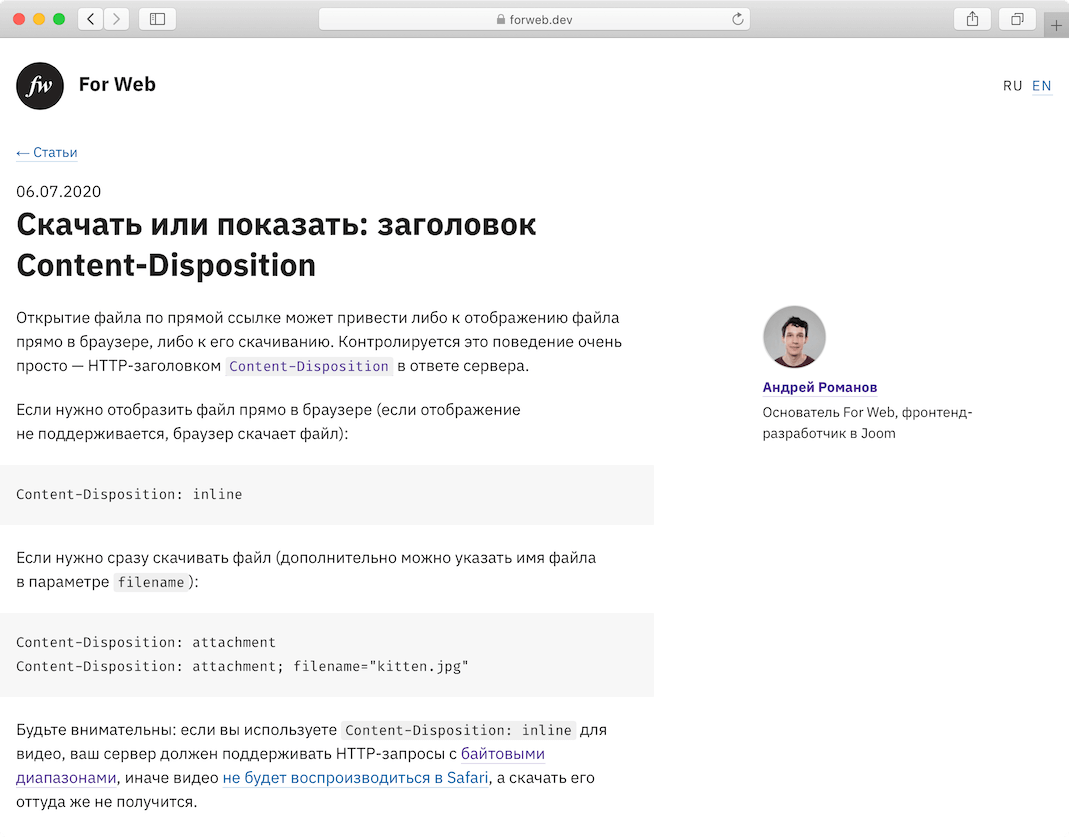
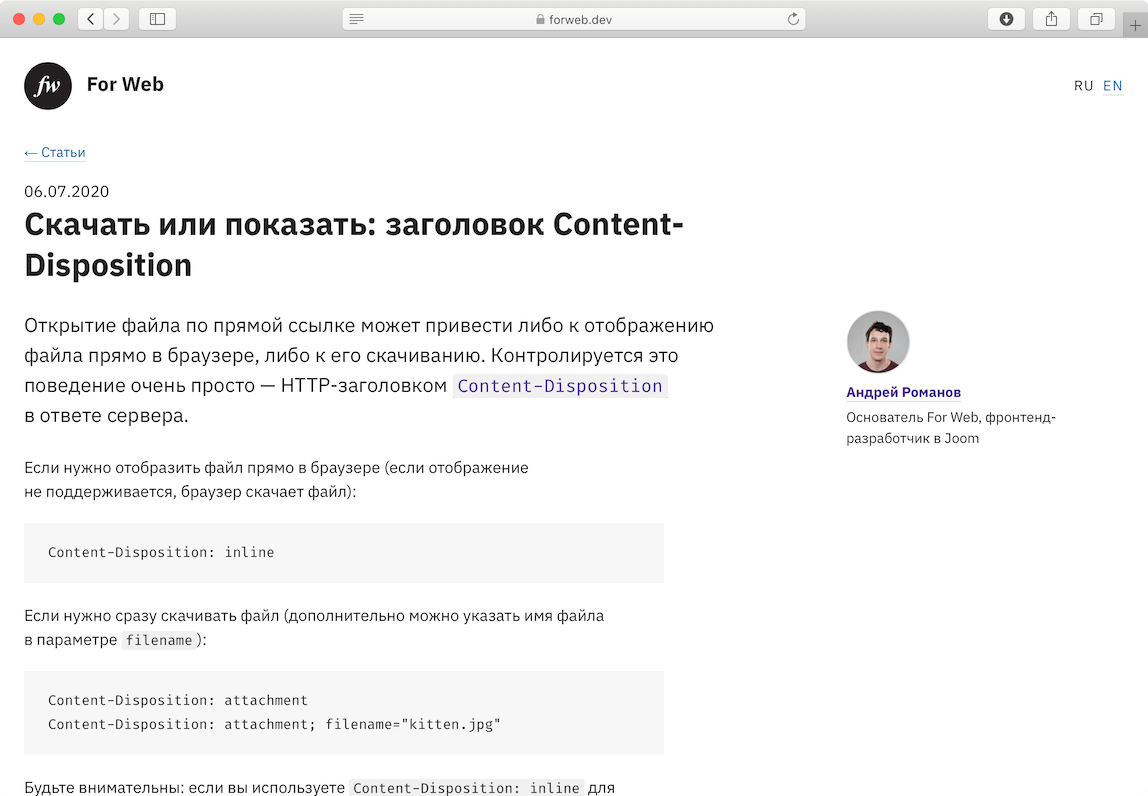
Update og:image for content-disposition article

diff --git a/src/site/ru/blog/content-disposition/index.md b/src/site/ru/blog/content-disposition/index.md
@@ -8,8 +8,8 @@ description: Подсказываем браузеру, что делать с 
 og:
   image:
     url: social.png
-    height: 837
-    width: 1069
+    height: 796
+    width: 1148
 ---
 <p class="paragraph--lead">Открытие файла по прямой ссылке может привести либо к отображению файла прямо в браузере, либо к его скачиванию. Контролируется это поведение очень просто — HTTP-заголовком <a href="https://developer.mozilla.org/en-US/docs/Web/HTTP/Headers/Content-Disposition"><code>Content-Disposition</code></a> в ответе сервера.</p>
 
